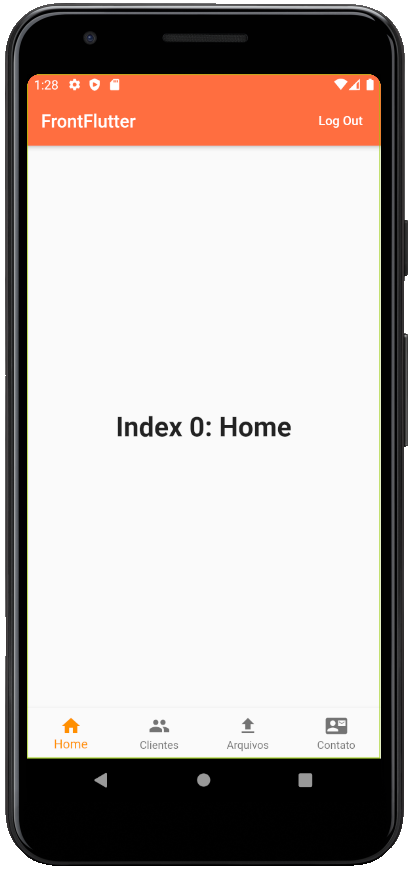
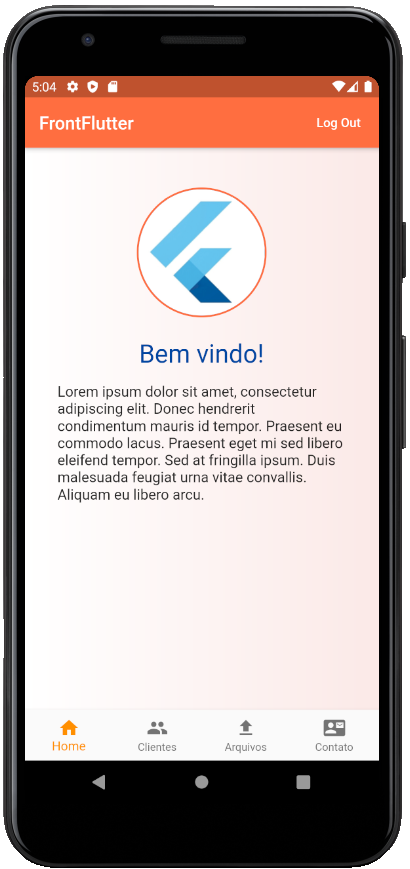
ajuste home

diff --git a/lib/main.dart b/lib/main.dart
@@ -7,13 +7,12 @@ import 'package:shared_preferences/shared_preferences.dart';
 
 import 'clientes.dart';
 import 'contact.dart';
+import 'home.dart';
 import 'login.dart';
 
 void main() => runApp(MyApp());
 
 class MyApp extends StatelessWidget {
-
-
   @override
   Widget build(BuildContext context) {
     return MaterialApp(
@@ -21,9 +20,7 @@ class MyApp extends StatelessWidget {
       debugShowCheckedModeBanner: false,
       home: MainPage(),
       theme: ThemeData(
-        primaryColor: Colors.deepOrangeAccent,
-        accentColor: Colors.white70
-      ),
+          primaryColor: Colors.deepOrangeAccent, accentColor: Colors.white70),
     );
   }
 }
@@ -34,32 +31,25 @@ class MainPage extends StatefulWidget {
 }
 
 class _MainPageState extends State<MainPage> {
-
   SharedPreferences sharedPreferences;
 
-    int _selectedIndex = 0;
-    static const TextStyle optionStyle =
+  int _selectedIndex = 0;
+  static const TextStyle optionStyle =
       TextStyle(fontSize: 30, fontWeight: FontWeight.bold);
-    List<Widget> _widgetOptions = <Widget>[
-    Text(
-      'Index 0: Home',
-      style: optionStyle,
-    ),
-  ClientesPage(),
+  List<Widget> _widgetOptions = <Widget>[
+    HomePage(),
+    ClientesPage(),
     Text(
       'Index 2: Arquivos',
       style: optionStyle,
     ),
-     ContactPage(),
+    ContactPage(),
   ];
-    void _onItemTapped(int index) {
+  void _onItemTapped(int index) {
     setState(() {
       _selectedIndex = index;
     });
   }
-
-
-
 
   @override
   void initState() {
@@ -69,8 +59,10 @@ class _MainPageState extends State<MainPage> {
 
   checkLoginStatus() async {
     sharedPreferences = await SharedPreferences.getInstance();
-    if(sharedPreferences.getString("token") == null) {
-      Navigator.of(context).pushAndRemoveUntil(MaterialPageRoute(builder: (BuildContext context) => LoginPage()), (Route<dynamic> route) => false);
+    if (sharedPreferences.getString("token") == null) {
+      Navigator.of(context).pushAndRemoveUntil(
+          MaterialPageRoute(builder: (BuildContext context) => LoginPage()),
+          (Route<dynamic> route) => false);
     }
   }
 
@@ -84,7 +76,10 @@ class _MainPageState extends State<MainPage> {
             onPressed: () {
               sharedPreferences.clear();
               sharedPreferences.commit();
-              Navigator.of(context).pushAndRemoveUntil(MaterialPageRoute(builder: (BuildContext context) => LoginPage()), (Route<dynamic> route) => false);
+              Navigator.of(context).pushAndRemoveUntil(
+                  MaterialPageRoute(
+                      builder: (BuildContext context) => LoginPage()),
+                  (Route<dynamic> route) => false);
             },
             child: Text("Log Out", style: TextStyle(color: Colors.white)),
           ),

diff --git a/lib/home.dart b/lib/home.dart
@@ -1,0 +1,59 @@
+import 'package:flutter/material.dart';
+
+
+class HomePage extends StatelessWidget{
+
+  
+  @override
+  Widget build(BuildContext context){
+     final alucard = Hero(
+      tag: 'hero',
+      child: Padding(
+        padding: EdgeInsets.all(16.0),
+        child: CircleAvatar(
+              radius: 72,
+              backgroundColor: Colors.deepOrangeAccent,
+              child: CircleAvatar(
+                radius: 70,
+                backgroundImage: AssetImage('img/photo.png'),
+              ),
+            ),
+      ),
+    );
+
+    final welcome = Padding(
+      padding: EdgeInsets.all(8.0),
+      child: Text(
+        'Bem vindo!',
+        style: TextStyle(fontSize: 28.0, color: Colors.blue[900]),
+      ),
+    );
+
+
+    final lorem = Padding(
+      padding: EdgeInsets.all(8.0),
+      child: Text(
+        'Lorem ipsum dolor sit amet, consectetur adipiscing elit. Donec hendrerit condimentum mauris id tempor. Praesent eu commodo lacus. Praesent eget mi sed libero eleifend tempor. Sed at fringilla ipsum. Duis malesuada feugiat urna vitae convallis. Aliquam eu libero arcu.',
+        style: TextStyle(fontSize: 16.0),
+      ),
+    );
+
+    final body = Container(
+      width: MediaQuery.of(context).size.width,
+      padding: EdgeInsets.all(28.0),
+      decoration: BoxDecoration(
+        gradient: LinearGradient(colors: [
+          Colors.white,
+          Colors.deepOrange[50],
+        ]),
+      ),
+      child: Column(
+        children: <Widget>[alucard, welcome, lorem],
+      ),
+    );
+
+    return Scaffold(
+      body: body,
+    );
+  }
+}
